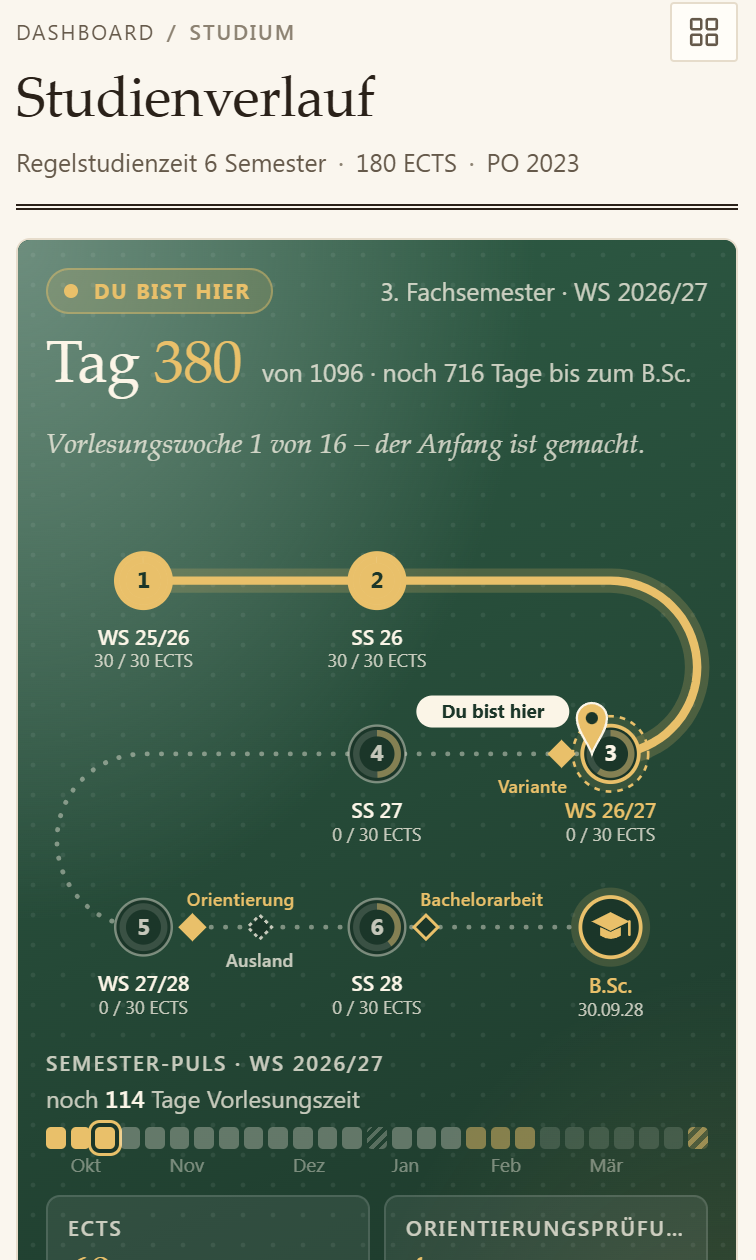
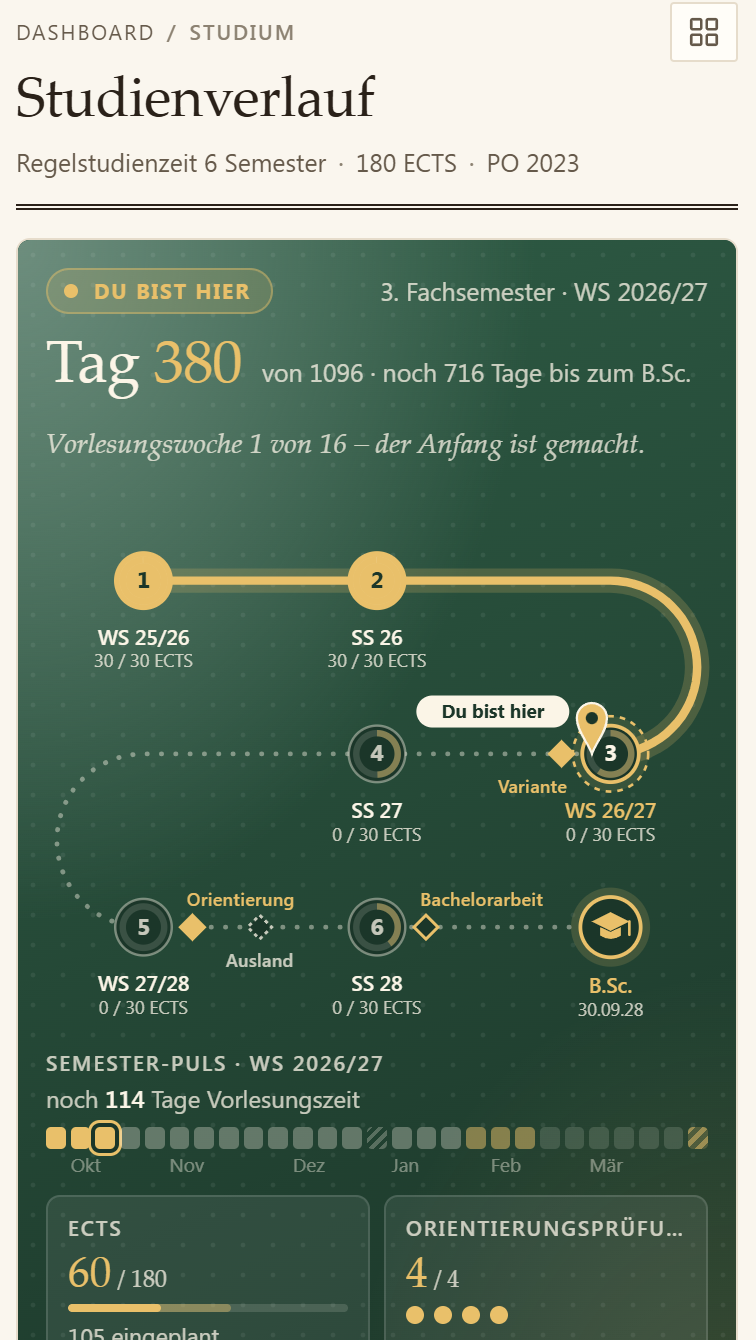
Vorschaubild Termine mit dem neuen Monatskalender, Studienverlauf-Bild ohne schwarzen Streifen, Alt-Text ohne Fristen

diff --git a/README.md b/README.md
@@ -93,7 +93,7 @@ Mehrere Geräte, Alma-Stundenplan verbinden, Updates: [ausführliche Anleitung](
   dazu ein Schwerpunkt-Planer.
 - **Alltag:** Stundenplan aus Alma (optional), Vorlesungsnotizen mit einem Klick, Unterlagen einordnen.
 
-![Kalender mit Terminen und Anmeldefristen am Computer, Studienverlauf auf dem iPhone](docs/bilder/vorschau-2-termine.png)
+![Monatskalender mit Terminen der Uni, Fachschaft und Prüfungen am Computer, Studienverlauf auf dem iPhone](docs/bilder/vorschau-2-termine.png)
 
 ## Woher die Daten kommen
 
